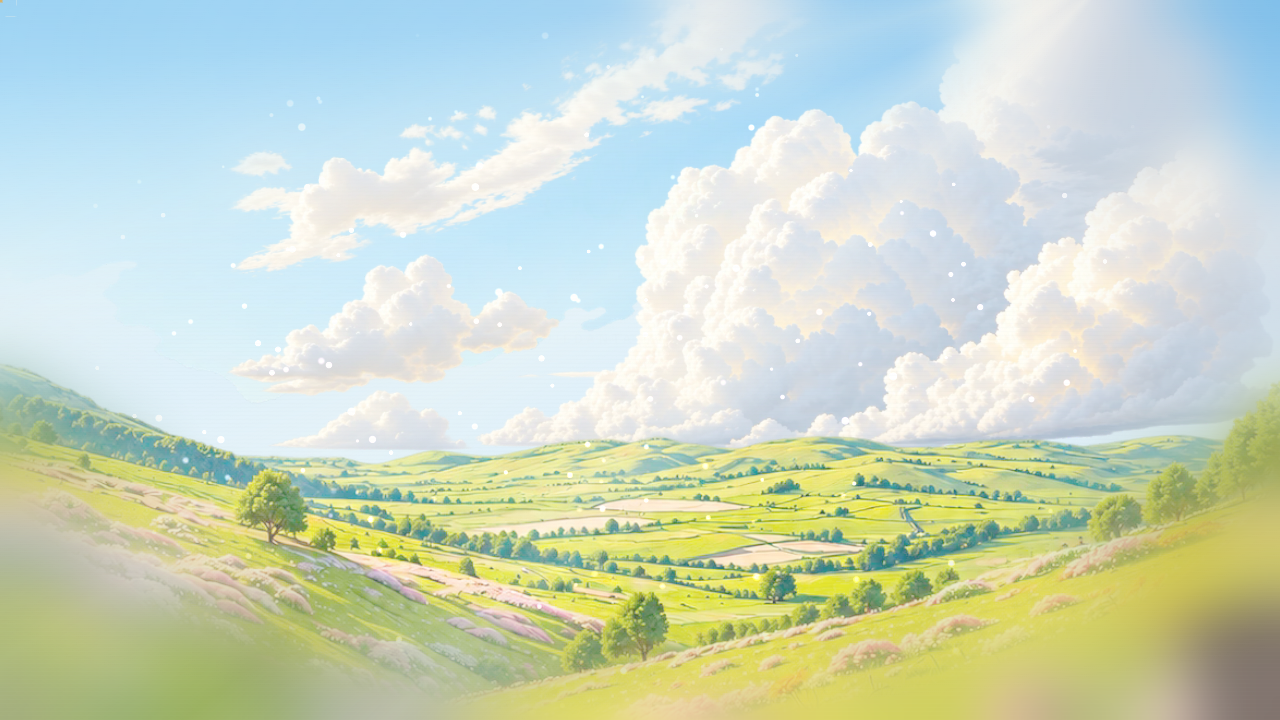
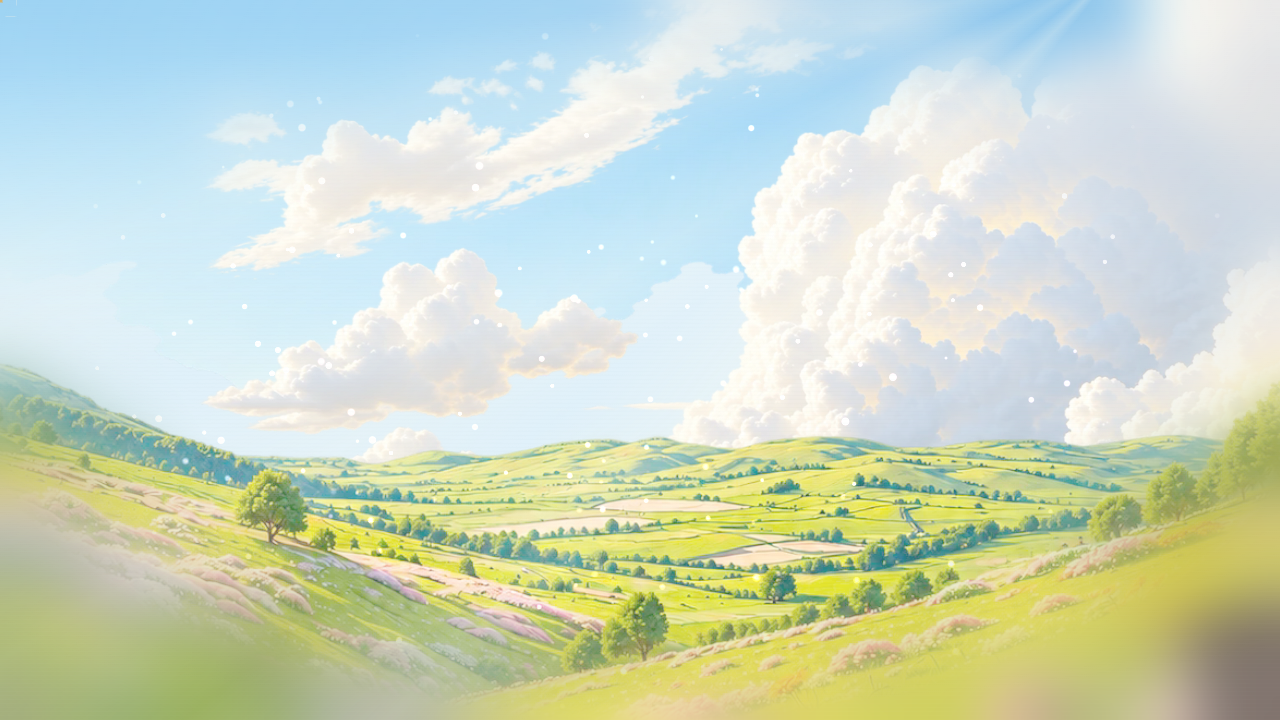
clouds zoomed + shifted right

diff --git a/src/gl/consultMeet.js b/src/gl/consultMeet.js
@@ -148,7 +148,7 @@ export function createConsultMeet(scene, _opts = {}) {
   horizonPlane.position.set(0, 0, -18);
   bgGroup.add(horizonPlane);
   const skyPlane = mkLayer(SKY_URL, 34, 19.1, 0, 2.2, -16, 0);       // fills frame, gradient higher
-  const cloudsPlane = mkLayer(CLOUDS_URL, 19, 10.7, 2.0, 3.1, -10, 0); // cloud mass rides the upper band
+  const cloudsPlane = mkLayer(CLOUDS_URL, 25, 14.1, 4.5, 3.6, -10, 0); // zoomed, pushed right
   const landPlane = mkLayer(LAND_URL, 22, 16.5, 0, -0.62, -5, 0);  // meadow covers ~57% of the frame
 
   const rigGroup = new Group();
@@ -548,8 +548,8 @@ export function createConsultMeet(scene, _opts = {}) {
        shifts the layers; depth comes from each layer's pointer rate */
     skyPlane.position.x = 0 + px * 0.45;
     skyPlane.position.y = 2.2 + py * 0.28;
-    cloudsPlane.position.x = 2.0 + px * 1.1;
-    cloudsPlane.position.y = 3.1 + py * 0.65;
+    cloudsPlane.position.x = 4.5 + px * 1.1;
+    cloudsPlane.position.y = 3.6 + py * 0.65;
     landPlane.position.x = 0 + px * 2.2;
     landPlane.position.y = -0.62 + py * 1.25;
     rigGroup.rotation.y = Math.sin(t * Math.PI) * 0.02 + px * 0.020;
